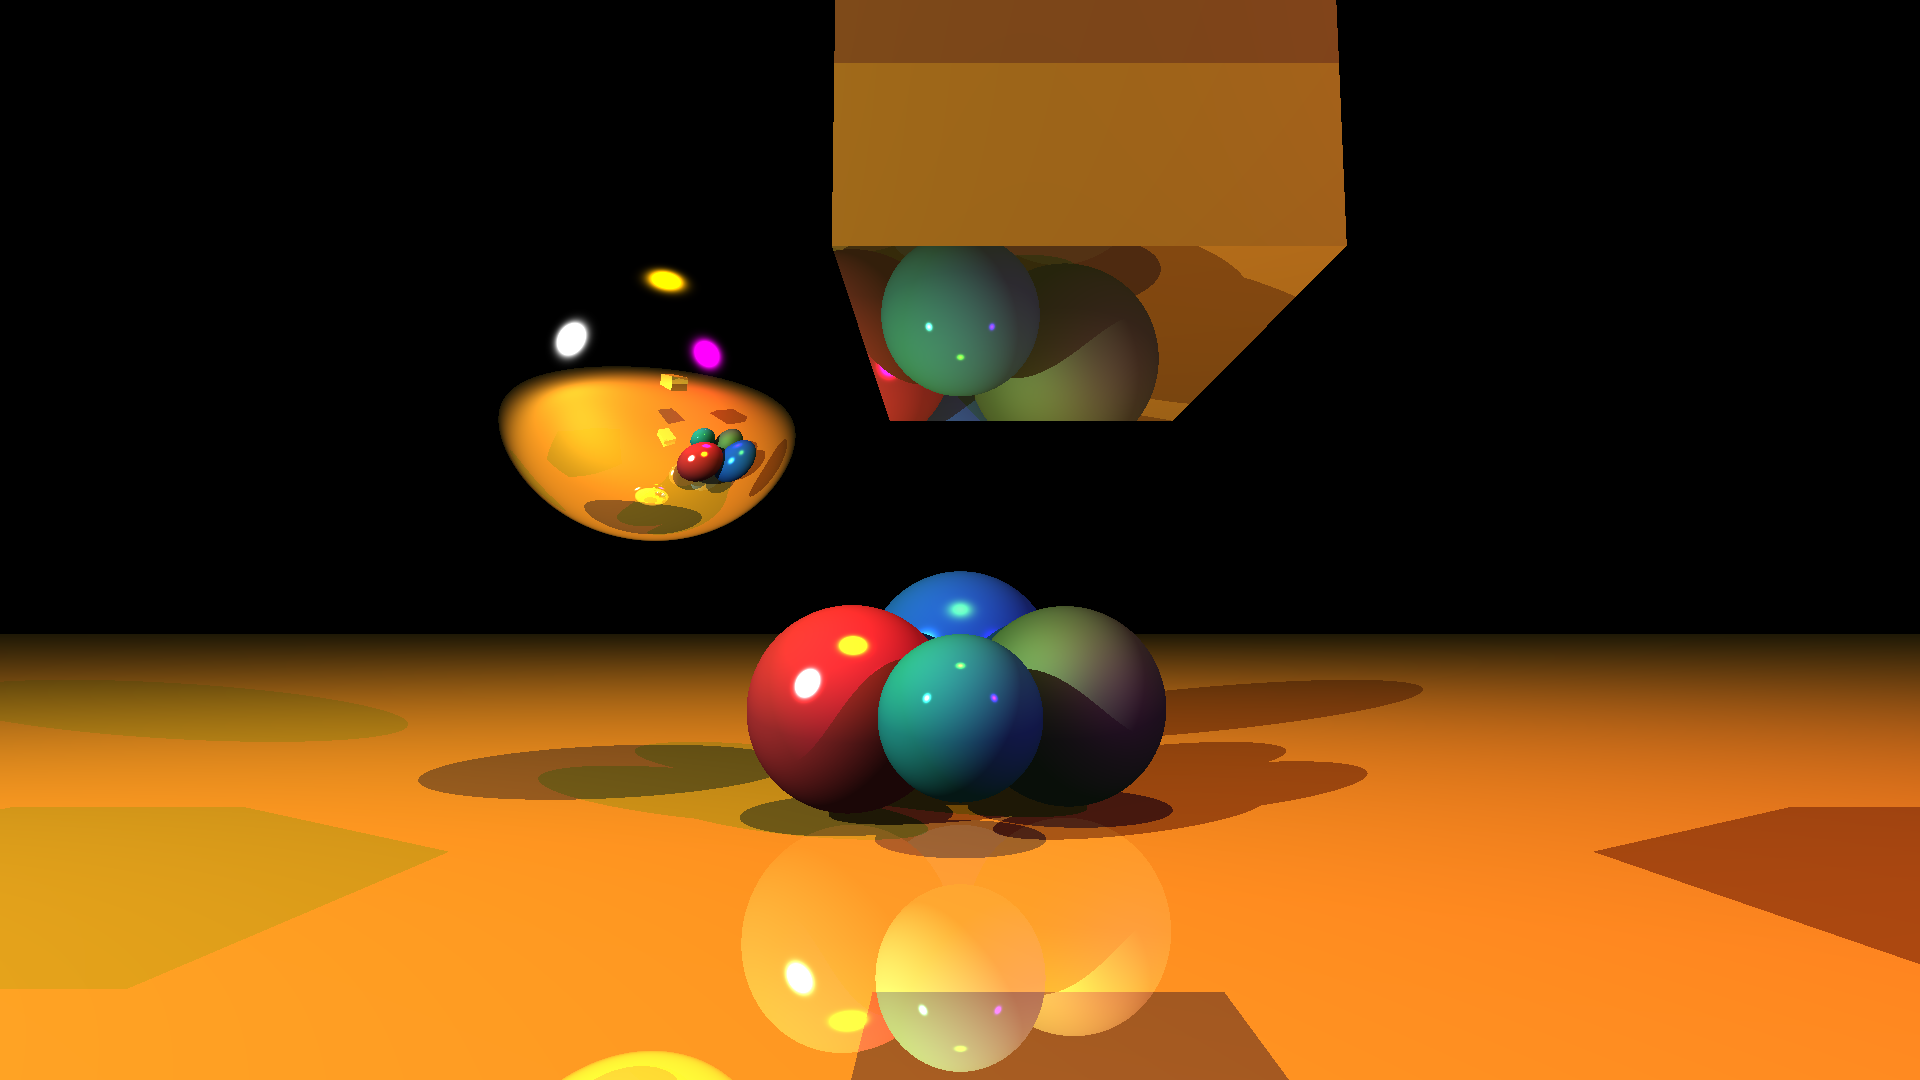
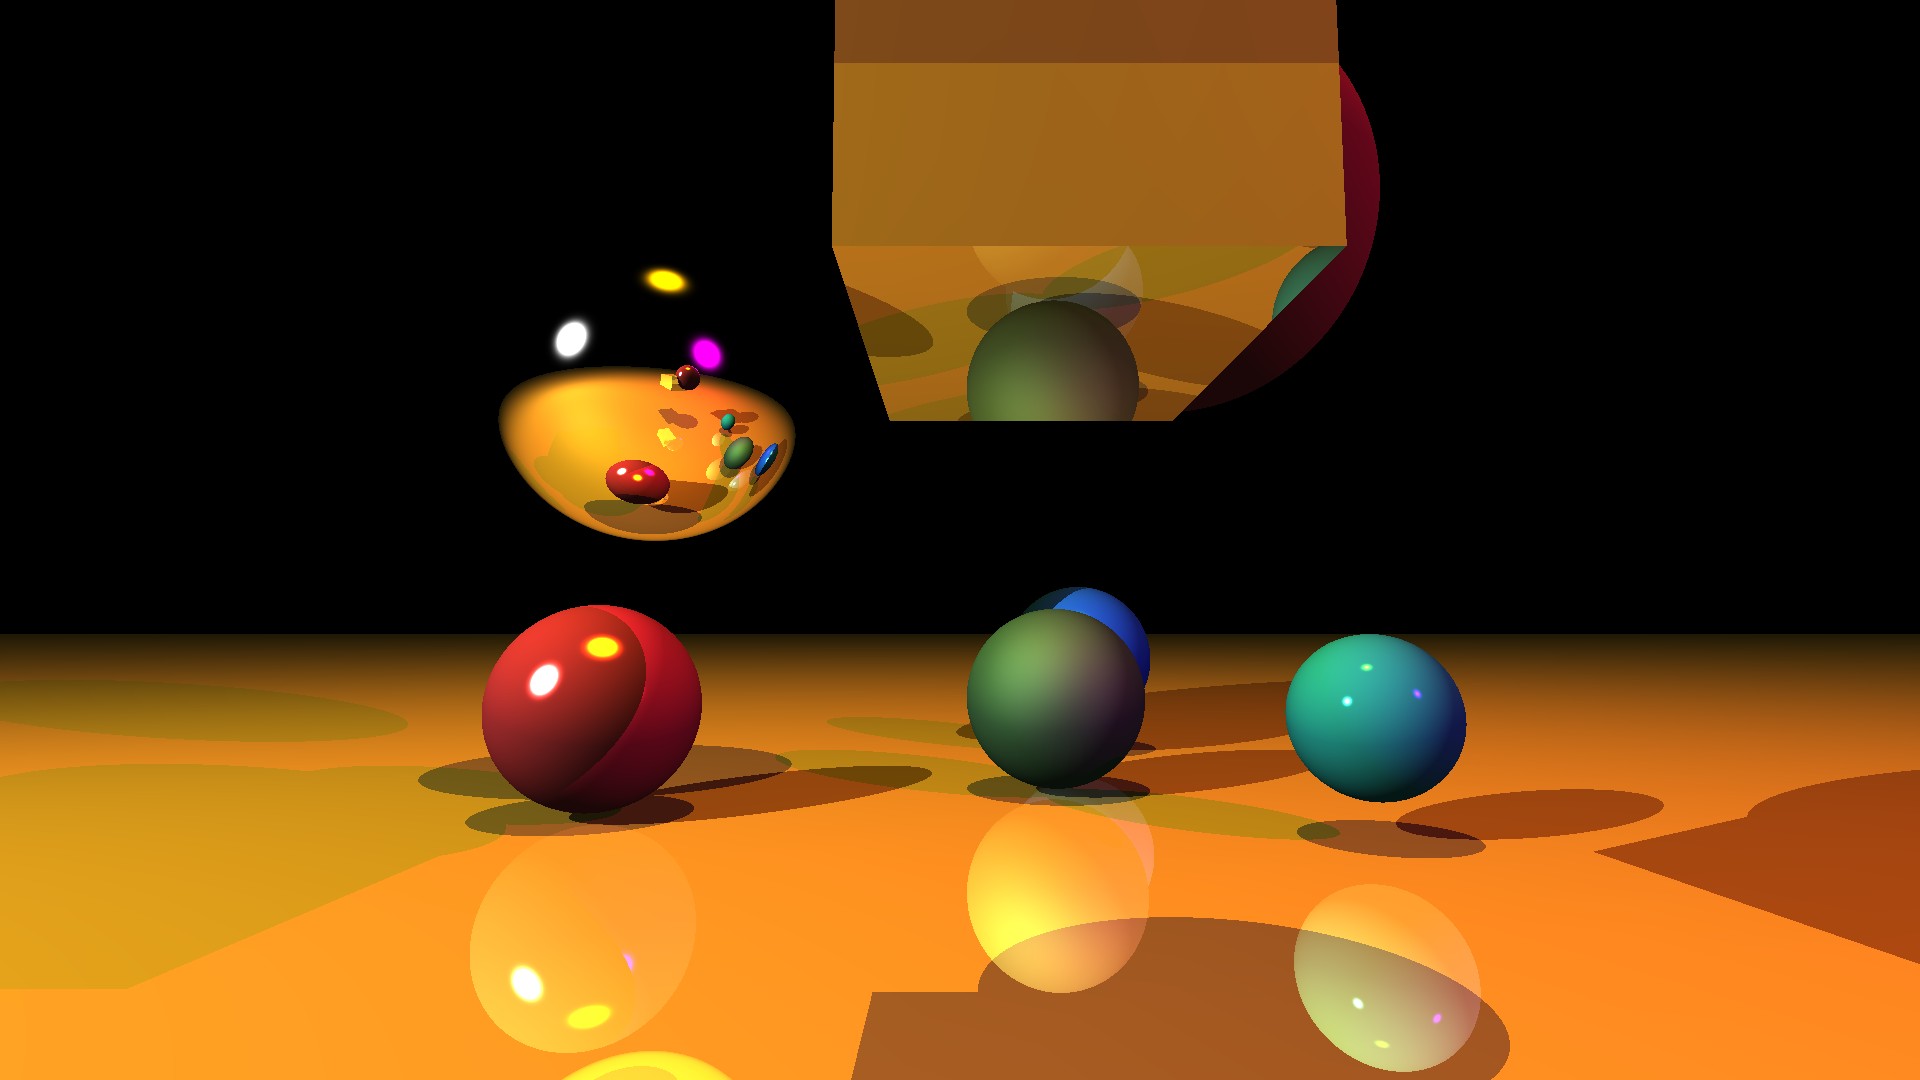
Trying some vectorization - it's currently slow

diff --git a/src/binary/main.rs b/src/binary/main.rs
@@ -9,11 +9,11 @@ use rusty_trace::vector::Vec3;
 use rusty_trace::shapes::sphere::Sphere;
 use rusty_trace::shapes::plane::Plane;
 use rusty_trace::shapes::aabb::Aabb;
+use rusty_trace::shapes::naabb::NAabb;
+use rusty_trace::transformations::Rotation;
 
 use std::time::Instant;
-use arrayfire;
-use arrayfire::Array;
-use arrayfire::Dim4;
+
 
 fn main() {
     let options = Cfg {
@@ -23,6 +23,7 @@ fn main() {
         specular: true,
         shadows: true,
         reflections: true,
+        opacity: true,
     };
 
     let width = 1920;
@@ -40,6 +41,19 @@ fn main() {
             0.,
         ),
         objects: vec![
+            Box::new(NAabb {
+                min: Vec3::new(6.0, 6.0, 6.0),
+                max: Vec3::new(4.0, 4.0, 4.0),
+                material: Material {
+                    color: Color::from_u8(0x40, 0xe0, 0xd0),
+                    diffuse: 0.6,
+                    specular: 5.0,
+                    specular_exponent: 500.0,
+                    reflectiveness: 0.0,
+                    opacity: 1.0
+                },
+                rotation: Rotation::new(0.0, 0.0, 30.0),
+            }),
             Box::new( Aabb {
                 min: Vec3::new(-1., 0., -3.),
                 max: Vec3::new(3.0, 3.0, 3.0),
@@ -49,10 +63,11 @@ fn main() {
                     specular: 0.2,
                     specular_exponent: 5.0,
                     reflectiveness: 0.6,
+                    opacity: 1.0,
                 },
             }),
             Box::new(Sphere {
-                position: Vec3::new(-3.0, -5.0, -16.0),
+                position: Vec3::new(3.0, 3.0, -3.0),
                 radius: 2.8,
                 material: Material {
                     color: Color::from_u8(0xff, 0x55, 0x55),
@@ -60,10 +75,23 @@ fn main() {
                     specular: 50.0,
                     specular_exponent: 100.0,
                     reflectiveness: 0.0,
+                    opacity: 1.0
                 },
             }),
             Box::new(Sphere {
-                position: Vec3::new(0.0, -5.0, -13.0),
+                position: Vec3::new(-10.0, -5.0, -16.0),
+                radius: 2.8,
+                material: Material {
+                    color: Color::from_u8(0xff, 0x55, 0x55),
+                    diffuse: 0.6,
+                    specular: 50.0,
+                    specular_exponent: 100.0,
+                    reflectiveness: 0.0,
+                    opacity: 1.0
+                },
+            }),
+            Box::new(Sphere {
+                position: Vec3::new(10.0, -5.0, -13.0),
                 radius: 2.0,
                 material: Material {
                     color: Color::from_u8(0x40, 0xe0, 0xd0),
@@ -71,10 +99,11 @@ fn main() {
                     specular: 5.0,
                     specular_exponent: 500.0,
                     reflectiveness: 0.0,
+                    opacity: 1.0
                 },
             }),
             Box::new(Sphere {
-                position: Vec3::new(3.0, -5.0, -17.0),
+                position: Vec3::new(3.0, -5.0, -20.0),
                 radius: 2.8,
                 material: Material {
                     color: Color::from_u8(0x77, 0xbb, 0x77),
@@ -82,10 +111,11 @@ fn main() {
                     specular: 0.2,
                     specular_exponent: 2.0,
                     reflectiveness: 0.0,
+                    opacity: 1.0
                 },
             }),
             Box::new(Sphere {
-                position: Vec3::new(0.0, -4.0, -20.0),
+                position: Vec3::new(5.0, -4.0, -30.0),
                 radius: 3.0,
                 material: Material {
                     color: Color::from_u8(0x2f, 0x8d, 0xff),
@@ -93,6 +123,7 @@ fn main() {
                     specular: 3.0,
                     specular_exponent: 50.0,
                     reflectiveness: 0.0,
+                    opacity: 1.0
                 },
             }),
             Box::new(Sphere {
@@ -104,6 +135,7 @@ fn main() {
                     specular: 50.0,
                     specular_exponent: 100.0,
                     reflectiveness: 1.0,
+                    opacity: 1.0
                 },
             }),
             Box::new(Plane {
@@ -115,6 +147,7 @@ fn main() {
                     specular: 0.2,
                     specular_exponent: 5.0,
                     reflectiveness: 0.6,
+                    opacity: 1.0
                 },
             }),
         ],

diff --git a/src/transformations.rs b/src/transformations.rs
@@ -1,0 +1,70 @@
+use arrayfire::{Array, Dim4, MatProp};
+
+use crate::vector::Vec3;
+
+use std::fmt;
+use std::fmt::{Debug, Formatter};
+
+pub trait Transformation {
+    fn transform(&self, _v: &Vec3) -> Vec3 {
+        unimplemented!();
+    }
+
+    fn inv_transform(&self, _v: &Vec3) -> Vec3 {
+        unimplemented!();
+    }
+}
+
+pub struct Rotation {
+    pub alpha: f64, // rotation about x
+    pub beta: f64, // rotation about y
+    pub gamma: f64, // rotation about z
+    mat: Array<f64>,
+}
+
+impl Debug for Rotation {
+    fn fmt(&self, f: &mut Formatter<'_>) -> fmt::Result {
+        f.debug_struct("Point")
+            .field("alpha", &self.alpha)
+            .field("beta", &self.beta)
+            .field("gamma", &self.gamma)
+            .finish()
+    }
+}
+
+impl Transformation for Rotation {
+    fn transform(&self, v: &Vec3) -> Vec3 {
+        let arr = Array::new(&[v.x, v.y, v.z], Dim4::new(&[3, 1, 1, 1]));
+        let transformed = arrayfire::matmul(
+            &self.mat, &arr, MatProp::TRANS, MatProp::NONE);
+        let mut buffer = Vec::<f64>::new();
+        buffer.resize(transformed.elements(), 0.0);
+        transformed.host(&mut buffer);
+        Vec3::from_slice(buffer.as_slice())
+    }
+
+    fn inv_transform(&self, v: &Vec3) -> Vec3 {
+        let arr = Array::new(&[v.x, v.y, v.z], Dim4::new(&[3, 1, 1, 1]));
+        let transformed = arrayfire::matmul(
+            &self.mat, &arr, MatProp::NONE, MatProp::NONE);
+        let mut buffer = Vec::<f64>::new();
+        buffer.resize(transformed.elements(), 0.0);
+        transformed.host(&mut buffer);
+        Vec3::from_slice(buffer.as_slice())
+    }
+}
+
+impl Rotation {
+    pub fn new(alpha: f64, beta: f64, gamma: f64) -> Rotation {
+        let (cos_alpha, cos_beta, cos_gamma) = (f64::cos(alpha), f64::cos(beta), f64::cos(gamma));
+        let (sin_alpha, sin_beta, sin_gamma) = (f64::sin(alpha), f64::sin(beta), f64::sin(gamma));
+
+        let mat = Array::new(&[
+            cos_alpha*sin_beta, cos_alpha*sin_beta*sin_gamma - sin_alpha*sin_gamma, cos_alpha*sin_beta*cos_gamma + sin_alpha*sin_beta,
+            sin_alpha*cos_beta, sin_alpha*sin_beta*sin_gamma + cos_alpha*cos_gamma, sin_alpha*sin_beta*cos_gamma - cos_alpha*sin_gamma,
+            -sin_gamma, cos_beta*sin_gamma, cos_beta*cos_gamma,
+        ], Dim4::new(&[3, 3, 1, 1]));
+        Rotation { alpha, beta, gamma, mat }
+    }
+}
+

diff --git a/src/shapes/naabb.rs b/src/shapes/naabb.rs
@@ -2,16 +2,23 @@ use crate::shapes::Shape;
 use crate::material::Material;
 use crate::ray::Ray;
 use crate::vector::Vec3;
+use crate::transformations::Rotation;
+use crate::transformations::Transformation;
 
 #[derive(Debug)]
-pub struct Aabb {
+pub struct NAabb {
     pub min: Vec3,
     pub max: Vec3,
     pub material: Material,
+    pub rotation: Rotation,
 }
 
-impl Shape for Aabb {
-    fn intersect(&self, ray: Ray) -> Option<f64> {
+impl Shape for NAabb {
+    fn intersect(&self, world_ray: Ray) -> Option<f64> {
+        let ray = Ray {
+            origin: self.rotation.transform(&world_ray.origin),
+            direction: self.rotation.transform(&world_ray.direction),
+        };
         let mut tmin = -f64::INFINITY;
         let mut tmax = f64::INFINITY;
         let inv_dir = 1.0 / ray.direction;
@@ -32,7 +39,9 @@ impl Shape for Aabb {
         tmax = tmax.min(tb.x.min(tb.y.min(tb.z)));
 
         if tmin < tmax && tmax > 0.0 {
-            Some(tmin)
+            let hit_point = ray.origin + ray.direction * tmin;
+            let world_hit_point = self.rotation.inv_transform(&hit_point);
+            Some((world_hit_point - world_ray.origin).length() / world_ray.direction.length())
         } else {
             None
         }
@@ -42,7 +51,9 @@ impl Shape for Aabb {
         self.material
     }
 
-    fn normal(&self, hit_point: Vec3) -> Vec3 {
+    fn normal(&self, world_hit_point: Vec3) -> Vec3 {
+        let hit_point = self.rotation.transform(&world_hit_point);
+
         let extent = (self.max - self.min) / 2.0;
         let center = (self.min + self.max) / 2.0;
         let local = hit_point - center;
@@ -67,6 +78,6 @@ impl Shape for Aabb {
             ret = Vec3 { x: 0.0, y: 0.0, z: local.y.signum() };
         }
 
-        ret
+        self.rotation.inv_transform(&ret)
     }
 }

diff --git a/src/material.rs b/src/material.rs
@@ -7,6 +7,7 @@ pub struct Material {
     pub specular: f64,
     pub specular_exponent: f64,
     pub reflectiveness: f64,
+    pub opacity: f64,
 }
 
 impl Material {
@@ -17,6 +18,7 @@ impl Material {
             specular: 0.0,
             specular_exponent: 0.0,
             reflectiveness: 0.0,
+            opacity: 1.0,
         }
     }
 }

diff --git a/src/vector.rs b/src/vector.rs
@@ -58,6 +58,14 @@ impl Vec3 {
     pub fn inv(&self) -> Vec3 {
         Vec3::new(1.0/self.x, 1.0/self.y, 1.0/self.z)
     }
+
+    pub fn from_slice(arr: &[f64]) -> Vec3 {
+        Vec3 {
+            x: arr[0],
+            y: arr[1],
+            z: arr[2],
+        }
+    }
 }
 
 impl Add for Vec3 {

diff --git a/src/lib.rs b/src/lib.rs
@@ -9,5 +9,6 @@ pub mod ray;
 pub mod renderer;
 pub mod vector;
 pub mod shapes;
+pub mod transformations;
 
 const EPSILON: f64 = 1e-6;

diff --git a/src/cfg.rs b/src/cfg.rs
@@ -6,4 +6,5 @@ pub struct Cfg {
     pub specular: bool,
     pub shadows: bool,
     pub reflections: bool,
+    pub opacity: bool,
 }

diff --git a/src/shapes.rs b/src/shapes.rs
@@ -14,3 +14,4 @@ pub trait Shape: Debug + Sync {
 pub mod sphere;
 pub mod plane;
 pub mod aabb;
+pub mod naabb;
